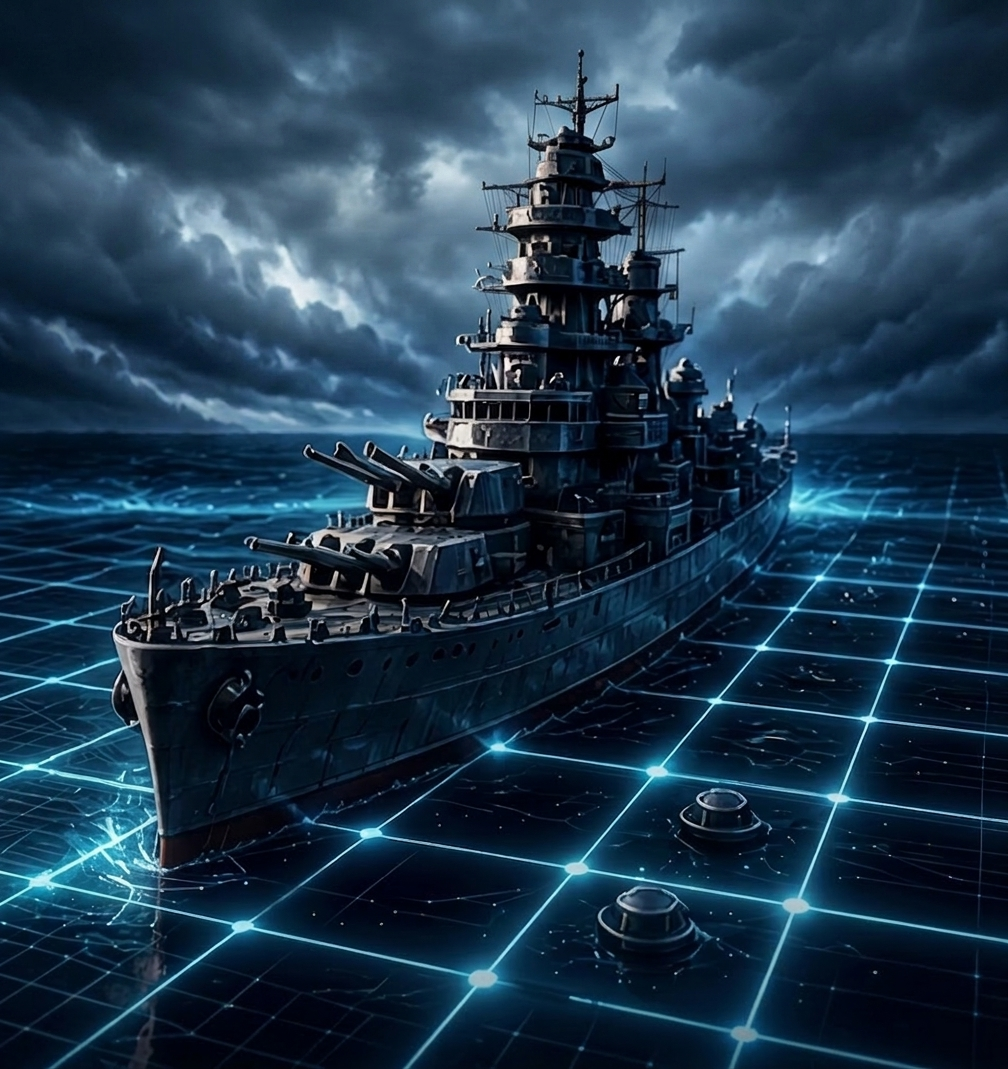
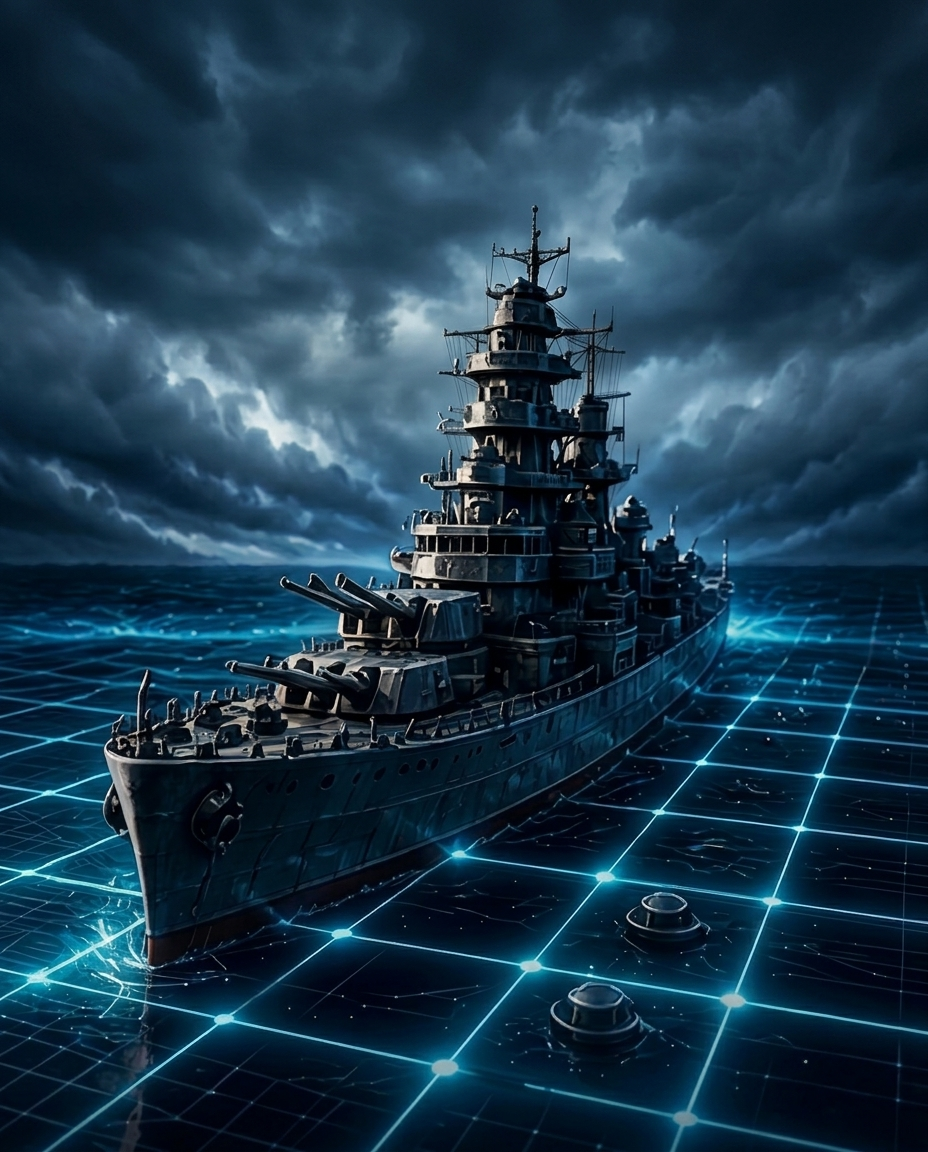
feat(minihry): obrázok pre Pantomímu a novšia verzia obrázka pre Loďky
- Pantomíma doteraz nemala vlastný hero obrázok (výrez z atlasu),
  teraz má vlastnú kresbu vo výbere hier pre Party mode
- Nahradená staršia verzia obrázka pre Loďky (predtým takmer štvorcová
  1008x1069, nová 928x1152 sedí presne do portrétového rámu dlaždíc)

diff --git a/client/src/screens/teamBattle/GamePicker.tsx b/client/src/screens/teamBattle/GamePicker.tsx
@@ -12,6 +12,7 @@ import {
   forbiddenWordGameHero,
   letterGameHeroV3,
   musicQuizGameHero,
+  pantomimaGameHero,
   partyMinigameAtlas,
   pingPongGameHero,
   quizBattleArt,
@@ -50,11 +51,7 @@ const GAME_ART: Record<
   GameType,
   { src: string; position: string; size: string }
 > = {
-  pantomima: {
-    src: partyMinigameAtlas,
-    position: "33.333% 100%",
-    size: "400% 300%",
-  },
+  pantomima: { src: pantomimaGameHero, position: "50% 50%", size: "cover" },
   sarady: { src: charadesGameHero, position: "50% 50%", size: "cover" },
   zakazane: { src: forbiddenWordGameHero, position: "50% 50%", size: "cover" },
   pesnicka: { src: songGameHeroV3, position: "50% 50%", size: "cover" },

diff --git a/client/src/media.test.ts b/client/src/media.test.ts
@@ -15,6 +15,7 @@ import {
   musicQuizGameHero,
   musicQuizGameHeroWide,
   musicQuizSetupHero,
+  pantomimaGameHero,
   partyMinigameAtlas,
   pingPongGameHero,
   songGameHero,
@@ -45,9 +46,10 @@ describe("minigame artwork registry", () => {
       letterGameHeroV3,
       songGameHeroV3,
       charadesGameHero,
+      pantomimaGameHero,
     ];
 
-    expect(assets).toHaveLength(20);
+    expect(assets).toHaveLength(21);
     expect(assets.every((asset) => asset.includes("assets/"))).toBe(true);
     expect(assets.every((asset) => !asset.includes("files.manuscdn.com"))).toBe(true);
   });

diff --git a/client/src/media.ts b/client/src/media.ts
@@ -47,6 +47,7 @@ export const pingPongGameHero = publicAsset("party-pingpong-hero.jpg");
 export const letterGameHeroV3 = publicAsset("party-letter-hero-v3.jpg");
 export const songGameHeroV3 = publicAsset("party-song-hero-v3.jpg");
 export const charadesGameHero = publicAsset("party-sarady-hero.jpg");
+export const pantomimaGameHero = publicAsset("party-pantomima-hero.jpg");
 /**
  * Pre uvítaciu obrazovku a kartičku v menu — portrét 928×1152 (~0,81 : 1),
  * blízko oboch panelov (kartička ~0,77–0,80 : 1, uvítacia obrazovka ~0,80 : 1).
